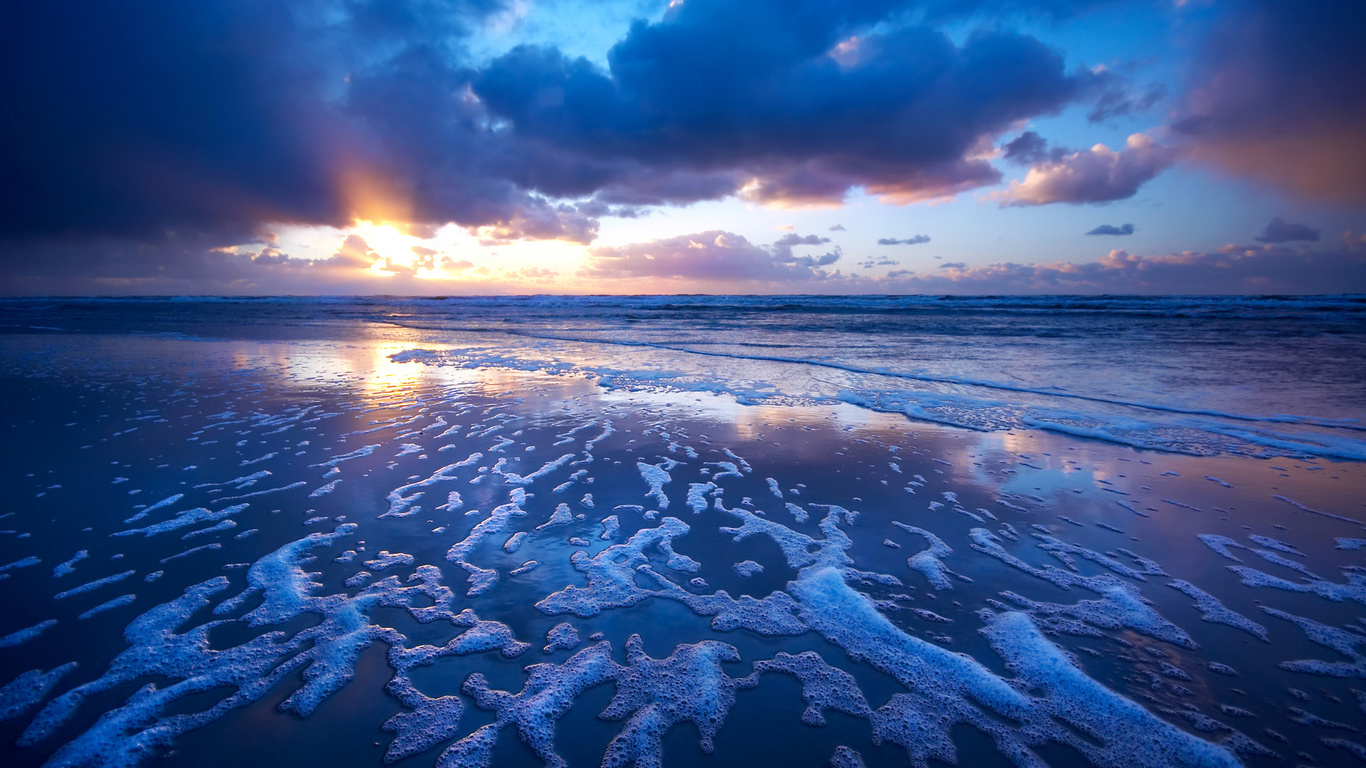
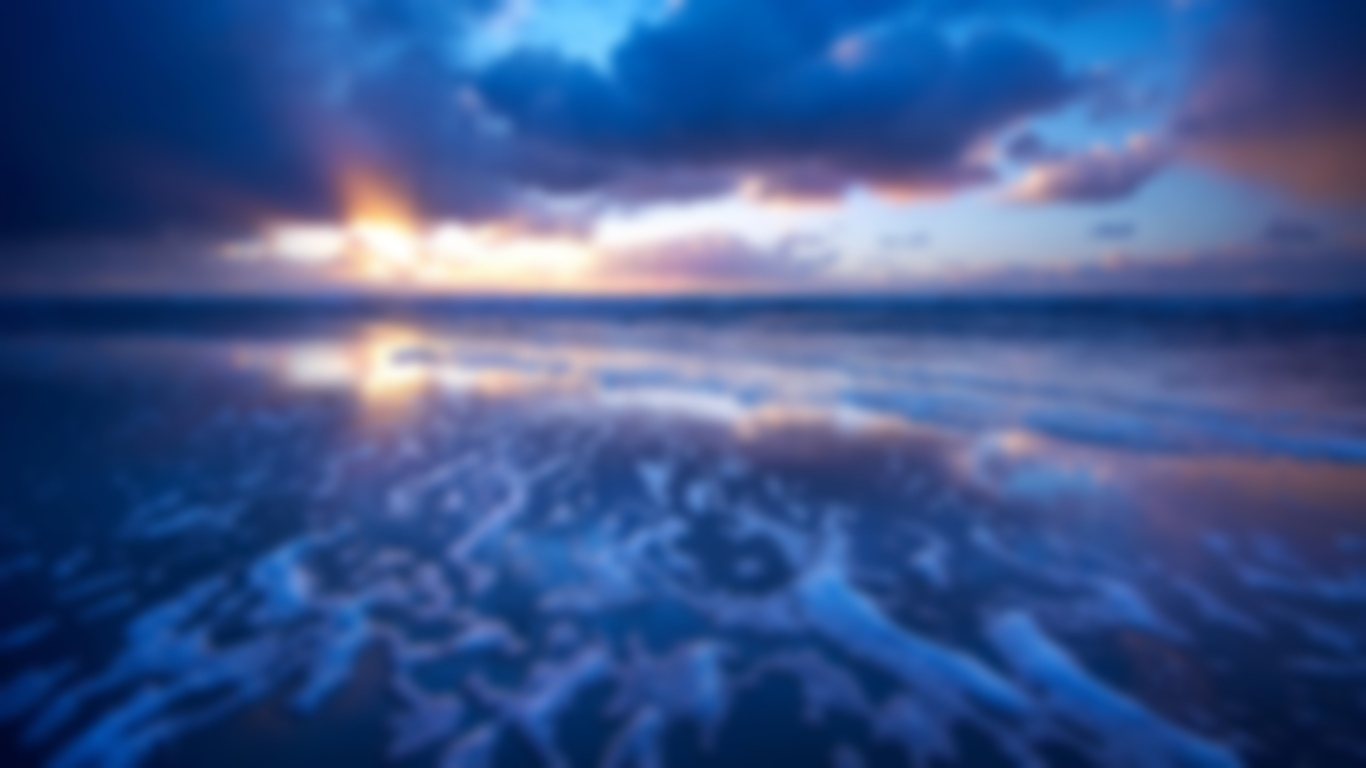
My pic

diff --git a/_includes/theme-home-yash.html b/_includes/theme-home-yash.html
@@ -5,7 +5,7 @@
 {% assign num_essays = essay_pages.size %}
 {% assign num_projects = project_pages.size %}
 
-<div style="height: 100%; background-image: url('./images/bg.jpg');  -webkit-background-size: cover; -moz-background-size: cover; -o-background-size: cover; background-size: cover; -webkit-filter: blur(5px); -moz-filter: blur(5px); -o-filter: blur(5px); -ms-filter: blur(5px); filter: blur(5px);" class="ui middle aligned grid ">
+<div style="height: 100%; background-image: url('./images/bg.jpg');  -webkit-background-size: cover; -moz-background-size: cover; -o-background-size: cover; background-size: cover;" class="ui middle aligned grid ">
 
   <div class="column">
 
